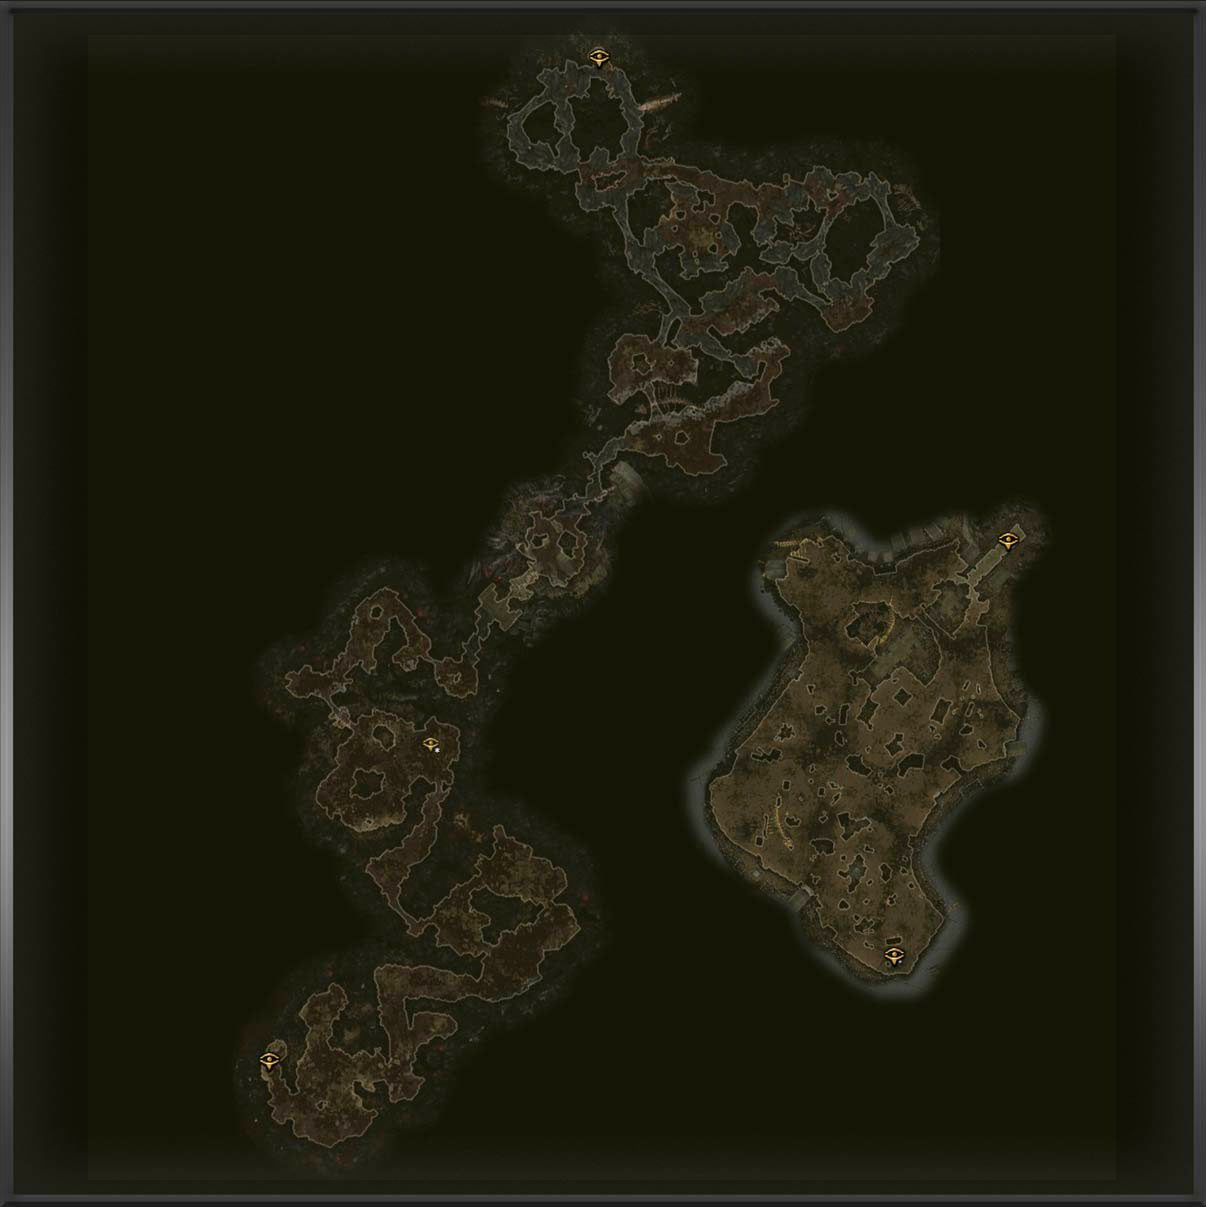
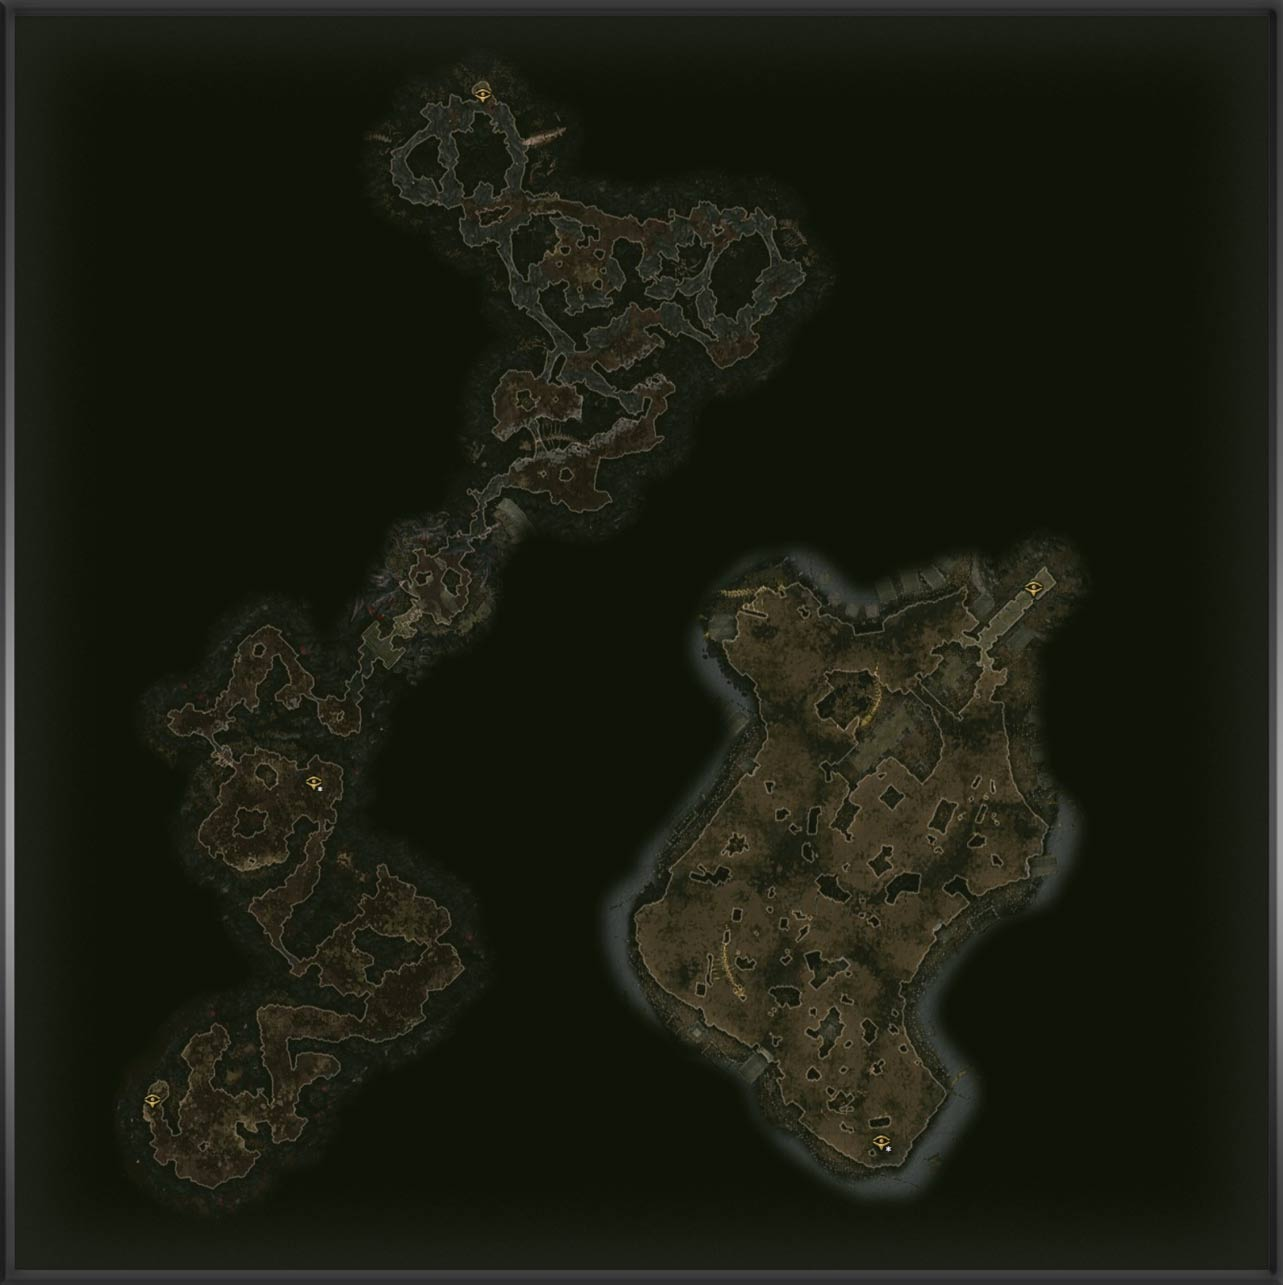
update region

Changed region(s): [[0.092, 0.0307, 0.8897, 0.9503], [0.9818, 0.0, 1.0, 0.9809], [0.0, 0.1839, 0.0307, 0.9196]]

diff --git a/js/ui.region.js b/js/ui.region.js
@@ -23,6 +23,10 @@
 { id: 'tag_UGBurrwitch_village_ratDen01', tag: 'tagUGBurrwitchVillageRatDen01', xp: 62.14, yp: 59.30, isDungeon: true },
 { id: 'tag_gDX1UG_ancient_grove01D', tag: 'tagGDX1UGAncientGrove01D', xp: 89.43, yp: 58, isDungeon: true },
 { id: 'tag_map_hidden_path01', tag: 'tagMapHiddenPath01', xp: 76.24, yp: 63.55 },
+
+{ id: 'tag_map_hidden_path04', tag: 'tagMapHiddenPath01', xp: 16.82, yp: 30.41, isDungeon: true },
+
+
 { id: 'tag_uGSlith_lab01', tag: 'tagUGSlithLab01', xp: 60.02, yp: 81.89 },
 { id: 'tag_map_hidden_path02', tag: 'tagMapHiddenPath01', xp: 46.82, yp: 84.34 },
 { id: 'tag_map_hidden_path03', tag: 'tagMapHiddenPath01', xp: 12.69, yp: 33.90 },
@@ -60,14 +64,14 @@
 { id: 'GDX1_map_ugdenbog_ancient', tag: 'tagGDX1MapUgdenbogAncient', xp: 90.76, yp: 39.6 },
 { id: 'GDX1_map_ugdenbog_north', tag: 'tagGDX1MapUgdenbog', xp: 88.2, yp: 35.65 },
 { id: 'GDX1_map_ugdenbog_village', tag: 'tagGDX1MapUgdenbogVillage', xp: 86.6, yp: 27.66 },
-{ id: 'GDX1_map_ugdenbog_altar', tag: 'tagGDX1MapUgdenbogAltar', xp: 84.69, yp: 23.81 },
+{ id: 'GDX1_map_ugdenbog_altar', tag: 'tagGDX1MapUgdenbogAltar', xp: 84.69, yp: 24 },
 { id: 'GDX1_UG_ancient_grove01a', tag: 'tagGDX1UGAncientGrove01A', xp: 91.28, yp: 54.26, isDungeon: true },
 { id: 'GDX1_UG_ancient_grove01b', tag: 'tagGDX1UGAncientGrove01B', xp: 97.84, yp: 54.58, isDungeon: true },
 { id: 'GDX1_UG_ancient_grove01', tag: 'tagGDX1UGAncientGrove01', xp: 95.80, yp: 51.39, isDungeon: true },
 { id: 'GDX1_UG_ugdenbog_mine01', tag: 'tagGDX1UGUgdenbogMine01', xp: 95.68, yp: 29.69, isDungeon: true },
 { id: 'GDX1_UG_ugdenbog_cave03', tag: 'tagGDX1UGUgdenbogCave03', xp: 92.96, yp: 35.20, isDungeon: true },
 { id: 'GDX1_UG_ugdenbog_wendigo02', tag: 'tagGDX1UGUgdenbogWendigo02', xp: 76.91, yp: 26.80, isDungeon: true },
-{ id: 'GDX1_UG_ugdenbog_void_rift01', tag: 'tagGDX1UGUgdenbogVoidRift01', xp: 76.62, yp: 23.96, isDungeon: true },
+{ id: 'GDX1_UG_ugdenbog_void_rift01', tag: 'tagGDX1UGUgdenbogVoidRift01', xp: 75.44, yp: 24.10, isDungeon: true },
 { id: 'GDX1_UG_ugdenbog_void_rift03', tag: 'tagGDX1UGUgdenbogVoidRift03', xp: 71.65, yp: 17.4, isDungeon: true },
 { id: 'map_kymons', tag: 'tagMapKymons', xp: 57.84, yp: 90.0 },
 { id: 'map_arkovian_foothills', tag: 'tagMapArkovianFoothills', xp: 55.16, yp: 86.34 },
@@ -131,7 +135,7 @@
 { id: 'UG_fort_faction01', tag: 'tagUGFortFaction01', xp: 28.82, yp: 48.67 },
 { id: 'map_voidlands02', tag: 'tagMapVoidlands02', xp: 21.12, yp: 55.02, isDungeon: true },
 { id: 'map_jagged_waste_fort_dungeon', tag: 'tagMapJaggedWasteFort', xp: 46.43, yp: 61.65, isDungeon: true },
-{ id: 'UG_old_arkovia02', tag: 'tagUGOldArkovia02', xp: 48.76, yp: 67.13, isDungeon: true },
+{ id: 'UG_old_arkovia02', tag: 'tagUGOldArkovia02', xp: 50.25, yp: 67.09, isDungeon: true },
 { id: 'map_cronleys_hideout', tag: 'tagMapCronleysHideout', xp: 54.39, yp: 66.08, isDungeon: true },
 { id: 'UG_old_arkovia01', tag: 'tagUGOldArkovia01', xp: 58.24, yp: 74.79, isDungeon: true },
 { id: 'UG_slith_lab02', tag: 'tagUGSlithLab02', xp: 56.62, yp: 76, isDungeon: true },

diff --git a/js/ui.overlay.js b/js/ui.overlay.js
@@ -8,11 +8,14 @@ window.DUNGEON_OVERLAYS = [
 { id: "spined_cove", map: "cairn", img: "spined-cove.jpg", left: 59.54, top: 83.19, width: 3.2074, height: 3.1428 },
 { id: "convict_tunnel", map: "cairn", img: "convict-tunnel.jpg", left: 66.0394, top: 88.789, width: 6.0479, height: 5.924 },
 { id: "hargate_laboratory", map: "cairn", img: "hargate-laboratory.jpg", left: 56.0013, top: 75.5905, width: 6.8742, height: 4.6104 },
+{ id: "the_hidden_path", map: "cairn", img: "the-hidden-path.jpg", left: 14.8229, top: 29.7744, width: 3.6742, height: 3.6104 },
+
+
 { id: "depraved_sanctuary", map: "cairn", img: "depraved-sanctuary.jpg", left: 77.8031, top: 70.9049, width: 3.8444, height: 3.7678 },
 { id: "flooded_passage", map: "cairn", img: "flooded-passage.jpg", left: 60.4262, top: 68.7089, width: 4.8966, height: 4.795 },
 { id: "cronleys_hideout", map: "cairn", img: "cronleys-hideout.jpg", left: 53.4257, top: 65.3967, width: 6.1811, height: 6.0534 },
 { id: "hannefy_mine", map: "cairn", img: "hannefy-mine.jpg", left: 56.0286, top: 71.5493, width: 3.962, height: 3.9036 },
-{ id: "arkovian_undercity", map: "cairn", img: "arkovian-undercity.jpg", left: 46.2992, top: 66.3647, width: 6.8017, height: 5.7196 },
+{ id: "arkovian_undercity", map: "cairn", img: "arkovian-undercity.jpg", left: 46.2992, top: 66.3647, width: 7.017, height: 6.1196 },
 { id: "tyrant_hold", map: "cairn", img: "tyrant-hold.jpg", left: 43.4316, top: 60.9735, width: 5.1184, height: 5.0157 },
 { id: "mountain_deep", map: "cairn", img: "mountain-deep.jpg", left: 20.9091, top: 72.1, width: 6.8081, height: 6.6695 },
 { id: "royal_hive", map: "cairn", img: "royal-hive.jpg", left: 13.5229, top: 62.4664, width: 9.4592, height: 9.3523 },
@@ -33,7 +36,7 @@ window.DUNGEON_OVERLAYS = [
 { id: "fort_ikon_armory", map: "cairn", img: "fort-ikon-armory.jpg", left: 11.0632, top: 12.896, width: 5.3206, height: 5.2126 },
 { id: "tom_of_the_watcher", map: "cairn", img: "tom-of-the-watcher.jpg", left: 10.8898, top: 6.1283, width: 8.3146, height: 5.4072 },
 { id: "fort_ikon_prison", map: "cairn", img: "fort-ikon-prison.jpg", left: 5.0335, top: 13.1897, width: 5.2523, height: 5.0953 },
-{ id: "desolate_waste", map: "cairn", img: "desolate-waste.jpg", left: 68.579, top: 12.3438, width: 13.4848, height: 13.2076 },
+{ id: "desolate_waste", map: "cairn", img: "desolate-waste.jpg", left: 68.579, top: 11.3438, width: 14.4848, height: 14.2076 },
 { id: "den_of_wendigo", map: "cairn", img: "den-of-wendigo.jpg", left: 74.8726, top: 26.1324, width: 6.8192, height: 6.6843 },
 { id: "barrow_holm", map: "cairn", img: "barrow-holm.jpg", left: 94.8385, top: 24.3491, width: 5.8807, height: 5.7605 },
 { id: "tomb_ugdall", map: "cairn", img: "tomb-ugdall.jpg", left: 91.0352, top: 31.86, width: 2.2575, height: 2.2121 },

diff --git a/js/ui.navmarkers.js b/js/ui.navmarkers.js
@@ -143,8 +143,8 @@ window.NAV_MARKERS_CAIRN = [
       },
       // Téléport Void's Eige
       {
-        xp: 75.30, 
-        yp: 12.98,
+        xp: 74.04, 
+        yp: 12.40,
         tag: 'tagGoTo + tagGDX1MapMalmouthEntry',
         icon: 'img/icon-link.png',
         targetProfile: 'Malmouth',
@@ -154,6 +154,33 @@ window.NAV_MARKERS_CAIRN = [
         id: 'EidgeCairn',
         targetId: 'LoneWatch'
       },
+
+       // Téléport Void's Eige Inside ------------------------------------------
+      {
+        xp: 72.13, 
+        yp: 20.03,
+        tag: 'tagGoTo + tagGDX1MapUgdenbogAltar',
+        icon: 'img/icon-link.png',
+        targetXp: 85.14,
+        targetYp: 23.82,
+        targetScale: 1,
+        id: 'EidgeCairnInside',
+        targetId: 'AltarRattosh'
+      },
+      {
+        xp: 85.14, 
+        yp: 23.82,
+        tag: 'tagGoTo + tagGDX1UGUgdenbogVoidRift03',
+        icon: 'img/icon-link.png',
+        targetXp: 72.13,
+        targetYp: 20.03,
+        targetScale: 1,
+        id: 'AltarRattosh',
+        targetId: 'EidgeCairnInside'
+      },
+       // --------------------------------------------------Téléport Void's Eige Inside -
+
+
       // Lower Crossing To Hargate Isle
       {
         xp: 63.47,

diff --git a/index.html b/index.html
@@ -479,8 +479,8 @@
   <script src="js/ui.lang.js?v=3.45"></script>
   <script src="js/core.js?v=3.10"></script>
   <script src="js/ui.rift.js?v=3.87"></script>
-  <script src="js/ui.region.js?v=3.95"></script>
-  <script src="js/ui.navmarkers.js?v=1.19"></script>
+  <script src="js/ui.region.js?v=3.96"></script>
+  <script src="js/ui.navmarkers.js?v=1.20"></script>
   <script src="js/ui.map.base.js?v=1.16"></script>
 
   <script src="js/ui.markers.js?v=17"></script>
@@ -493,8 +493,8 @@
   <script src="libs/lz-string.min.js"></script>
   <script src="libs/pako.min.js"></script>
   <script src="js/ui.tools.js?v=2.94"></script>
-  <script src="js/ui.overlay.js?v=3.11"></script>
-  <script src="js/ui.dungeon.links.js?v=1.12"></script>
+  <script src="js/ui.overlay.js?v=3.12"></script>
+  <script src="js/ui.dungeon.links.js?v=1.13"></script>
   <script src="js/ui.filter.js?v=2.97"></script>
   <script src="js/ui.search.js?v=1.1"></script>
 

diff --git a/js/ui.dungeon.links.js b/js/ui.dungeon.links.js
@@ -65,8 +65,10 @@ window.DUNGEON_ENTRY_MARKERS_CAIRN = [
 { id: "entry_arkovian_undercity2", xp: 50.29, yp: 81.46, tag: "Arkovian Undercity 2" },
 { id: "entry_smuggler_pass", xp: 39.41, yp: 77.83, tag: "Smuggler Pass" },
 { id: "entry_smuggler_pass2", xp: 29.37, yp: 77.95, tag: "Smuggler Pass2" },
-
 { id: "entry_Burried_crypt", xp: 29.69, yp: 69.94, tag: "Burried Crypt" },
+
+{ id: "entry_the_hidden_path", xp: 13.10, yp: 34.28, tag: "The Hidden Path" },
+
 
 
 
@@ -167,7 +169,7 @@ window.DUNGEON_LINKS = {
   "river_passage":["entry_river_passage", "entry_river_passage2"],
   "festering_lair":["entry_festering_lair"],
   "buried_crypt":["entry_Burried_crypt"],
-
+  "the_hidden_path":["entry_the_hidden_path"],
 
 
   "burial_cave2":["entry_burial_cave_2a", "entry_burial_cave_2b"],
